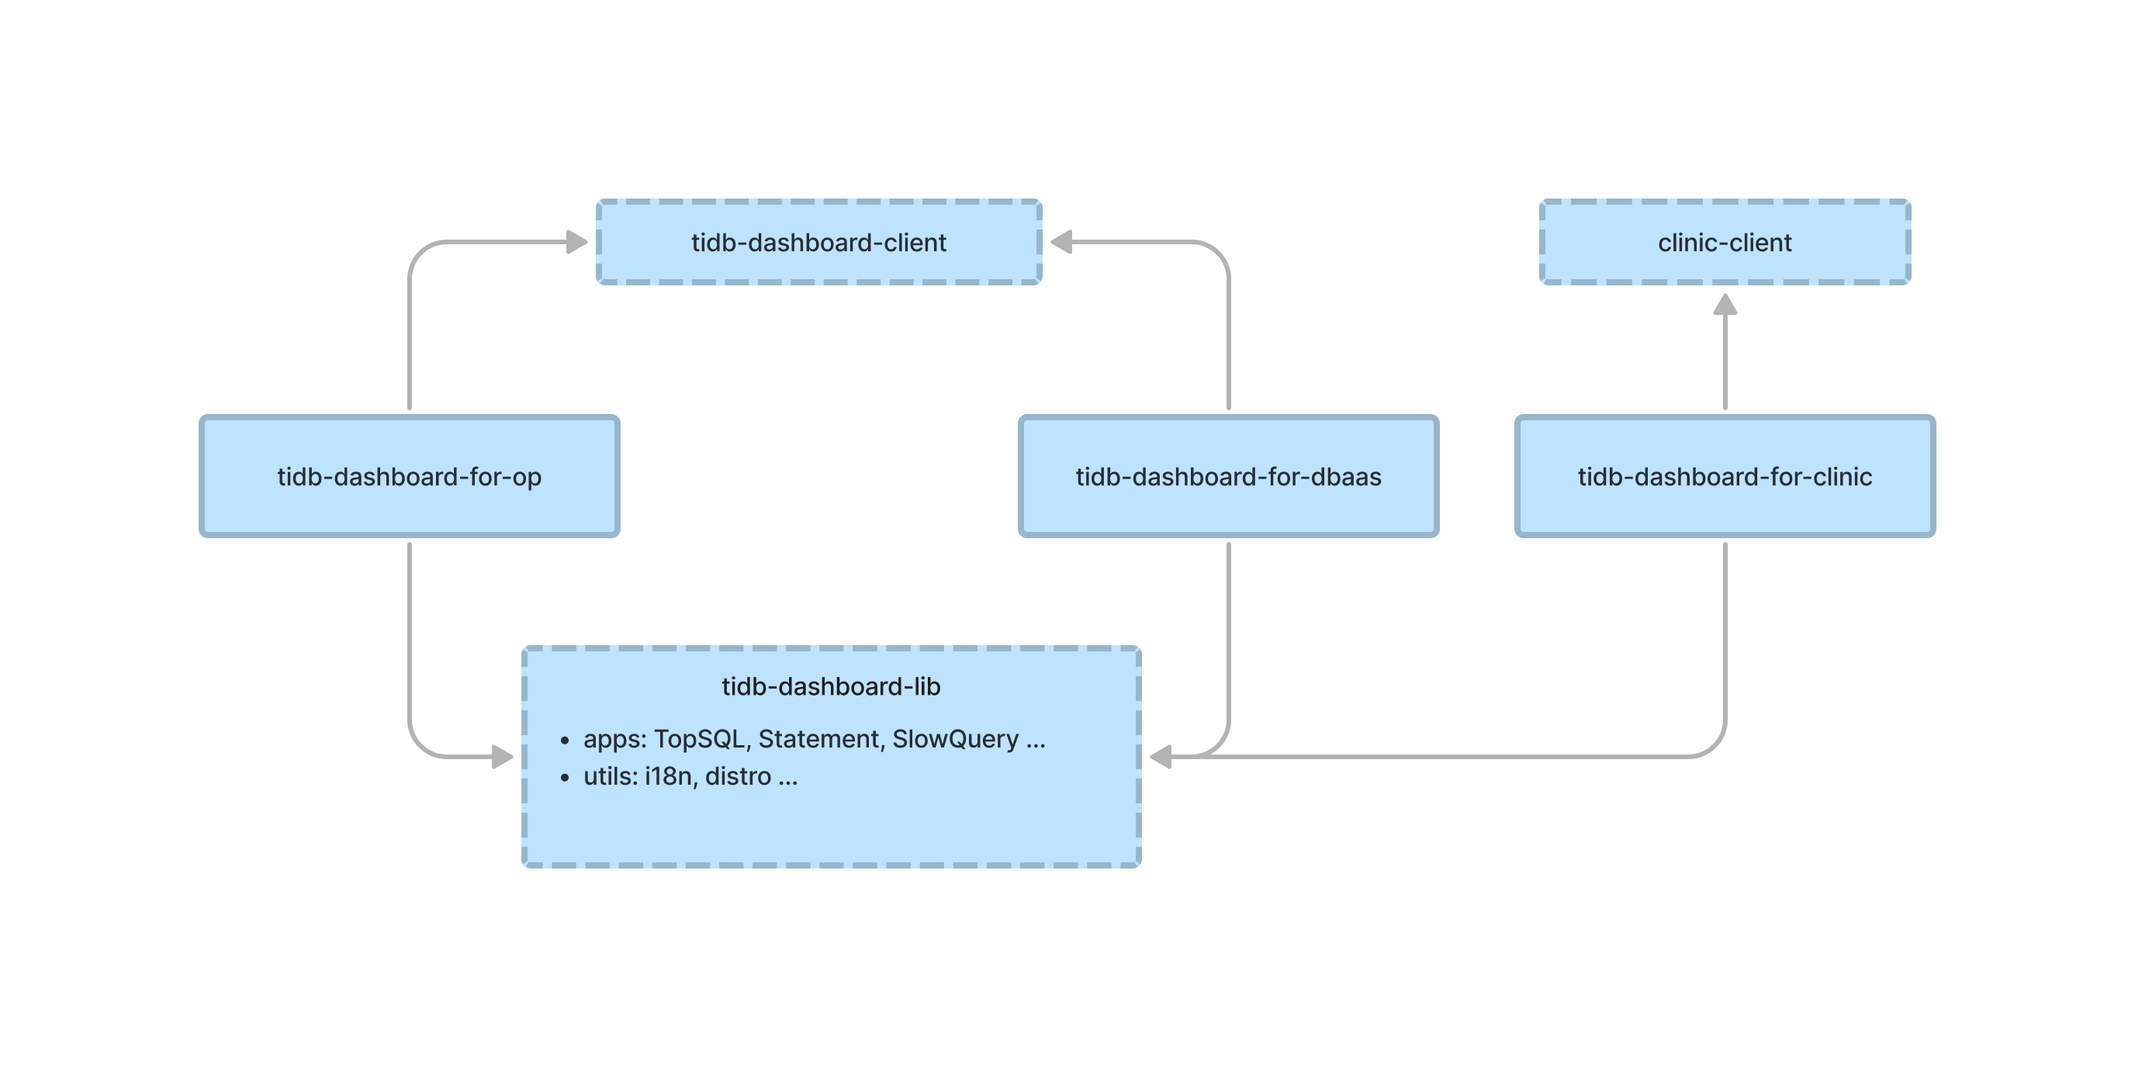
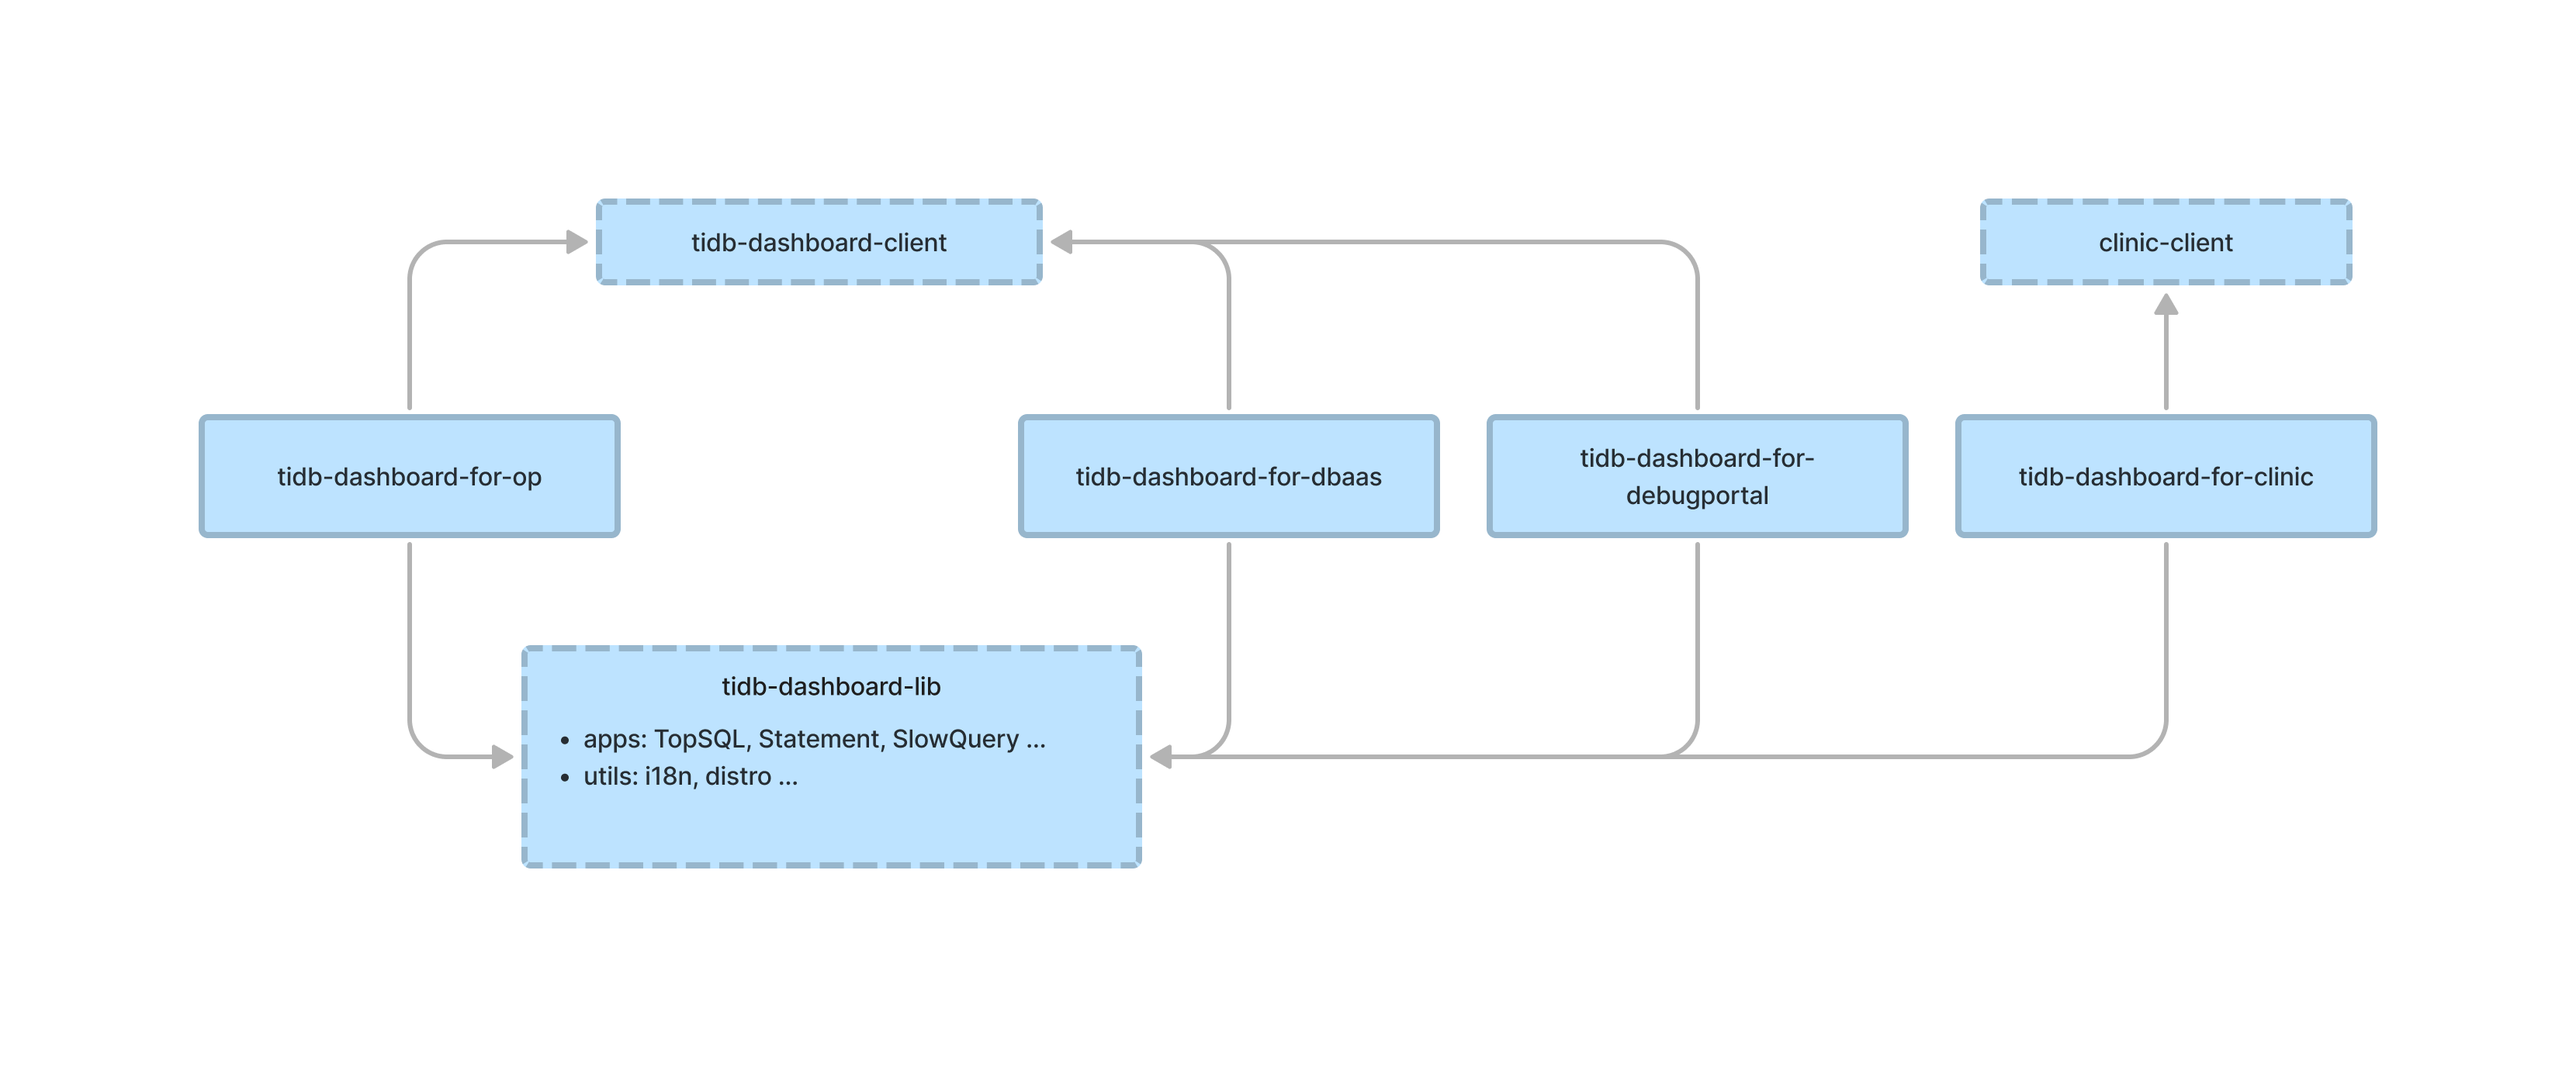
refine doc

diff --git a/ui/README.md b/ui/README.md
@@ -14,11 +14,11 @@
 
 > Note:
 >
-> You can run `pnpm dev:op`, `pnpm dev:dbaas`, `pnpm dev:clinic` only to start a specific dashboard variant, while `pnpm dev` starts all of them.
+> You can run `pnpm dev:op`, `pnpm dev:dbaas`, `pnpm dev:clinic`, `pnpm dev:debugportal` only to start a specific dashboard variant, while `pnpm dev` starts all of them.
 >
 > Before starting `pnpm dev:dbaas`, you need to start dbaas ui.
 >
-> Before starting `pnpm dev:clinic`, you need to start clinic ui.
+> Before starting `pnpm dev:clinic` and `pnpm dev:debugportal`, you need to start clinic ui.
 
 ### Build
 
@@ -34,4 +34,10 @@
 
 1. `pnpm build`
 1. `cd packages/tidb-dashboard-for-clinic`
+1. `pnpm publish --access public`
+
+### Publish `tidb-dashboard-for-debugportal` NPM package
+
+1. `pnpm build`
+1. `cd packages/tidb-dashboard-for-debugportal`
 1. `pnpm publish --access public`
